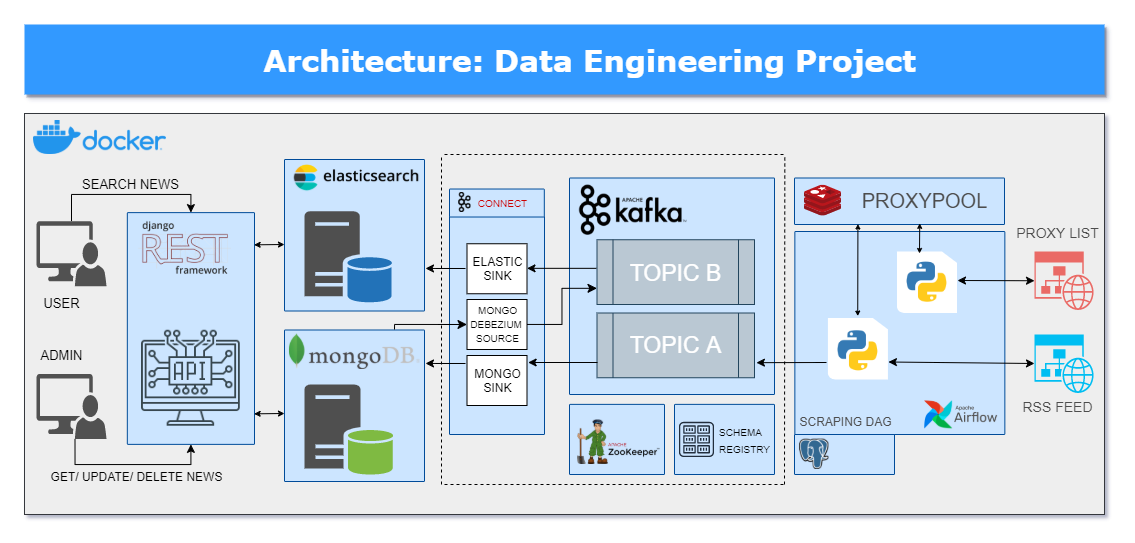
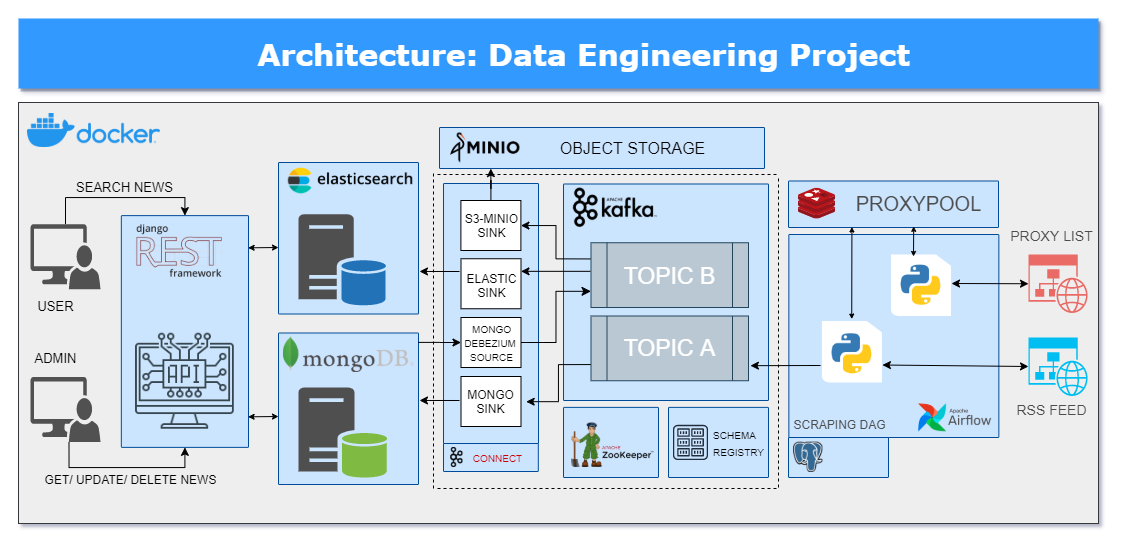
Add new architecture diagram & minio sink configuration

Changed region(s): [[0.0, 0.0295, 0.9956, 0.9724]]

diff --git a/README.md b/README.md
@@ -44,6 +44,7 @@ It runs periodically every X minutes producing micro-batches.
 - Kafka Connect **Mongo Sink** consumes data from **Kafka topic A** and stores news in MongoDB using upsert functionality based on **_id** field.
 - **Debezium MongoDB Source** tracks a MongoDB replica set for document changes in databases and collections, recording those changes as events in **Kafka topic B**.
 - Kafka Connect **Elasticsearch Sink** consumes data from **Kafka topic B** and upserts news in Elasticsearch. Data replicated between topics **A** and **B** ensures MongoDB and ElasticSearch synchronization.  stands for Command Query Responsibility Segregation. CQRS pattern allows the use of separate models for updating and reading information.
+- Kafka Connect **S3-Minio Sink** consumes records from **Kafka topic B** and stores them in MinIO (high-performance object storage) to ensure data persistency.
 
 #### Data access
 - Data gathered by previous steps can be easily accessed in [API service](api)  using public endpoints.
